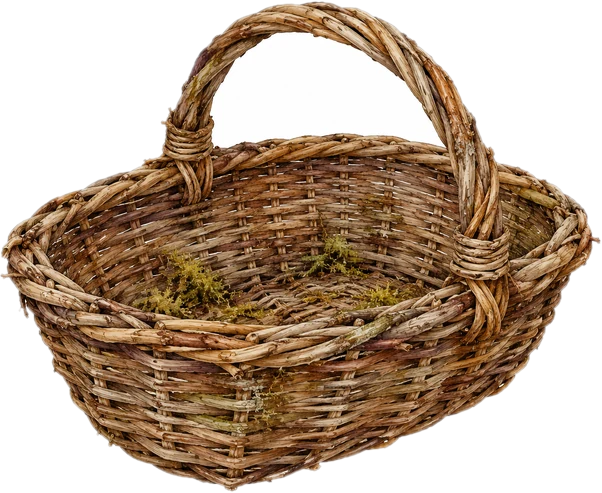
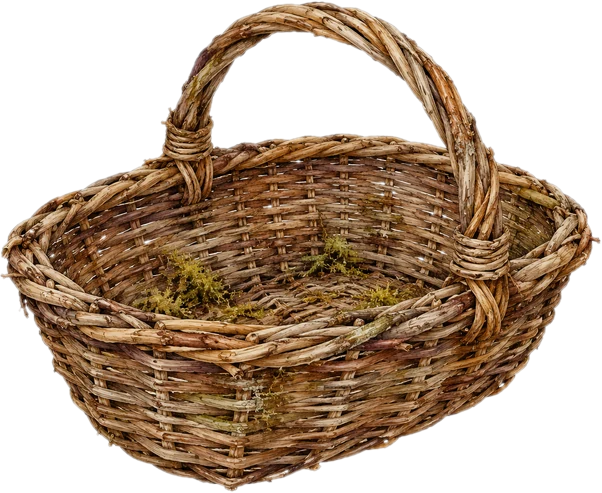
Comestible: all illustrations, gazette sidebar, medical report, Seasons quarantine, final-night story
Claude-Session: https://claude.ai/code/session_01JFfQ5nPYhxKCsb6BvVHV32

diff --git a/comestible/src/styles.css b/comestible/src/styles.css
@@ -357,8 +357,11 @@ button { font-family: inherit; font-size: inherit; color: inherit; }
 @keyframes lashes { 50% { transform: scale(1.05) skewX(3deg); filter: brightness(1.1); } }
 .cut-view { position: absolute; inset: 0; background: var(--paper); }
 .cut-view .lens-img { object-fit: contain; }
-.cut-tint { position: absolute; inset: 20% 22%; border-radius: 40%; background: var(--tint); mix-blend-mode: multiply; opacity: 0; animation: tint 2.2s 0.4s ease forwards; }
-@keyframes tint { to { opacity: 0.75; } }
+.cut-tint {
+  position: absolute; inset: 0; background: var(--tint); mix-blend-mode: multiply; opacity: 0; animation: tint 2.2s 0.4s ease forwards;
+  -webkit-mask-size: contain; mask-size: contain; -webkit-mask-repeat: no-repeat; mask-repeat: no-repeat; -webkit-mask-position: center; mask-position: center;
+}
+@keyframes tint { to { opacity: 0.6; } }
 .milk { position: absolute; left: 58%; top: 46%; width: 12px; height: 12px; border-radius: 50% 50% 50% 0; transform: rotate(-45deg) scale(0); background: var(--milk); box-shadow: 0 0 0 1px #0003; animation: milk 1.6s 0.3s ease forwards; }
 @keyframes milk { to { transform: rotate(-45deg) scale(2.2); } }
 .blood { position: absolute; inset: 0; background: radial-gradient(ellipse at 50% 45%, #8e1a12dd, #5a0d08aa 40%, transparent 65%); mix-blend-mode: multiply; animation: bleed 2s ease forwards; transform-origin: top; }
@@ -497,16 +500,24 @@ body.no-shake .shaking, body.no-shake .poisoned { animation: none; }
 .masthead { font-family: var(--display); font-size: 64px; text-align: center; line-height: 1; border-bottom: 3px double #1c1612; padding-bottom: 6px; }
 .issue { text-align: center; font-size: 0.7em; letter-spacing: 0.15em; text-transform: uppercase; border-bottom: 1px solid #1c1612; padding: 4px 0; margin-bottom: 14px; }
 .gazette article h3 { font-family: var(--display); font-weight: 400; margin: 0 0 4px; line-height: 1.1; }
-.gazette article p { margin: 0; font-size: 0.78em; text-align: justify; hyphens: auto; }
+.gazette article p { margin: 0; font-size: 0.86em; text-align: justify; hyphens: auto; }
 .gazette .lead h3 { font-size: 2.1em; text-align: center; }
 .gazette .lead p { font-size: 1em; margin-bottom: 4px; }
 .gazette-portrait { float: left; width: 150px; height: 150px; object-fit: cover; margin: 4px 22px 8px 0; filter: grayscale(1) sepia(0.5) contrast(1.2); border: 3px solid #1c1612; }
 .gazette .lead { overflow: hidden; margin-bottom: 10px; }
 .memorial { display: flex; flex-wrap: wrap; gap: 14px; margin-top: 26px; border-top: 1px solid #8a6a4366; padding-top: 18px; }
-.memorial figure { margin: 0; width: 110px; text-align: center; font-size: 0.65em; }
-.memorial-img { width: 110px; height: 110px; object-fit: cover; filter: grayscale(1) sepia(0.4); border: 2px solid var(--ink); }
+.memorial figure { margin: 0; width: 84px; text-align: center; font-size: 0.65em; }
+.memorial-img { width: 84px; height: 84px; object-fit: cover; filter: grayscale(1) sepia(0.4); border: 2px solid var(--ink); }
 .memorial-img.dead { filter: grayscale(1) brightness(0.7) contrast(1.2); }
-.columns { column-count: 3; column-gap: 26px; column-rule: 1px solid #1c161255; }
+.gazette-body { display: grid; grid-template-columns: 1fr 260px; gap: 26px; }
+.gazette-side { border-left: 1px solid #1c161255; padding-left: 22px; }
+.gazette-side figure { margin: 0 0 14px; text-align: center; }
+.engraving { width: 100%; height: 230px; object-fit: contain; filter: grayscale(1) sepia(0.35) contrast(1.35) brightness(0.95); mix-blend-mode: multiply; }
+.gazette-side figcaption { font-style: italic; font-size: 0.72em; border-top: 1px solid #1c1612; padding-top: 4px; }
+.weather { border: 1px solid #1c1612; padding: 8px 12px; font-size: 0.75em; }
+.weather h4 { margin: 0 0 4px; font-family: var(--display); font-weight: 400; font-size: 1.2em; text-align: center; }
+.weather p { margin: 0; text-align: center; }
+.columns { column-count: 2; column-gap: 26px; column-rule: 1px solid #1c161255; }
 .columns article { break-inside: avoid; margin-bottom: 14px; }
 .columns .big h3, .columns .normal h3 { font-size: 1.2em; }
 .columns .small h3 { font-size: 1em; }
@@ -515,7 +526,7 @@ body.no-shake .shaking, body.no-shake .poisoned { animation: none; }
   position: absolute; left: 50%; top: 50px; transform: translateX(-50%); width: 1200px; height: 720px;
   display: grid; grid-template-columns: 1fr 1fr; background: #2a1d14; padding: 14px; border-radius: 8px; box-shadow: 0 30px 80px #000c; animation: rise 0.6s ease;
 }
-.ledger-page { background: var(--paper) var(--tex-paper); background-size: 600px; color: var(--ink); padding: 34px 44px; }
+.ledger-page { background: var(--paper) var(--tex-paper); background-size: 600px; color: var(--ink); padding: 30px 44px; overflow-y: auto; }
 .ledger-page:first-child { box-shadow: inset -20px 0 30px -20px #6b4b2a; }
 .ledger-page:last-child { box-shadow: inset 20px 0 30px -20px #6b4b2a; }
 .ledger-page h2, .ledger-page h3 { font-family: var(--display); font-weight: 400; margin: 0 0 18px; font-size: 1.7em; }
@@ -527,7 +538,11 @@ body.no-shake .shaking, body.no-shake .poisoned { animation: none; }
 .ledger-total { display: flex; justify-content: space-between; margin-top: 18px; padding-top: 10px; border-top: 3px double var(--ink); font-size: 1.15em; font-family: var(--display); }
 .ledger-hint { font-size: 0.72em; font-style: italic; color: #6b2a1a; margin: 2px 0 6px; }
 .ledger-warning { color: var(--blood); font-size: 0.8em; font-style: italic; min-height: 1.2em; }
-.status p { margin: 8px 0; }
+.status p { margin: 6px 0; }
+.doctor { margin-top: 18px; border-top: 1px solid #8a6a4366; padding-top: 10px; font-size: 0.78em; }
+.doctor h3 { font-size: 1.4em; margin-bottom: 8px; }
+.doctor p { margin: 4px 0; }
+.doctor em { color: var(--blood); }
 .status strong { font-family: var(--display); font-weight: 400; }
 .lvl0 { color: var(--moss); }
 .lvl1 { color: #7a6a2a; }

diff --git a/comestible/src/i18n/fr.ts b/comestible/src/i18n/fr.ts
@@ -73,6 +73,7 @@ export const fr = {
       'La brume est entrée dans les maisons. C’est la dernière nuit avant le convoi de vivres.',
     ],
     rules: {
+      1: 'Outils : loupe et sels. Deux tampons : Comestible et Toxique. Le guide est votre seul ami.',
       2: 'Règle : tout spécimen dont la base manque est refusé (Toxique). Outils : couteau, règle.',
       3: 'Règle : ce qui n’est pas un champignon se brûle (Au feu). Outil : sporée.',
       4: 'Décret : lactaires délicieux et cèpes de plus de 15 cm sont saisis pour le comte (Saisi). Outil : bougie.',
@@ -328,6 +329,9 @@ export const fr = {
   morning: {
     gazette: 'La Gazette de Vaux-les-Brumes',
     issue: 'N° {n} — {date} 1887 — un sou',
+    plate: 'Planche du jour : {name}',
+    weatherTitle: 'Le temps',
+    weather: ['Brume au matin, pluie fine le soir.', 'Gel blanc, vent du nord.', 'Ciel bas, odeur de terre.', 'Brouillard tenace, aucune étoile.', 'Pluie grise par intermittence.', 'Nuit sans lune. Restez chez vous.'],
     continue: 'Ouvrir le registre',
     ledger: 'Registre de l’officine',
     income: 'Verdicts rendus ({n} spécimens)',
@@ -352,6 +356,23 @@ export const fr = {
     mistLevels: ['Claire', 'Légère', 'Épaisse', 'Étouffante', 'Partout'],
     youLevels: ['Bien portant', 'Fiévreux', 'Démangeaisons', 'Ça pousse', 'Tiède'],
   },
+  doctor: {
+    title: 'Rapport du médecin',
+    none: 'Aucune erreur relevée cette nuit. Le docteur a dormi.',
+    more: '… et {n} autres.',
+    line: '{who} — {what} : tamponné « {given} ».',
+    mimic: '{name} (imitation)',
+    outcome: {
+      poison: 'Intoxication.',
+      escaped: 'Ce n’était pas un champignon.',
+      infraction: 'Pied coupé : infraction relevée.',
+      missedSeize: 'Devait être saisi.',
+      wrongSeize: 'Saisi à tort.',
+      waste: 'Comestible jeté.',
+      wasteBurn: 'Comestible brûlé.',
+      countPoison: 'Servi au comte.',
+    },
+  },
   articles: {
     death: { t: 'Drame : {who} est mort', b: 'On a retrouvé {who} sans vie au petit matin, la bouche pleine d’écume. Le dernier repas venait de l’officine. Le docteur parle d’empoisonnement fongique.' },
     sick: { t: '{who} alité', b: 'Coliques, sueurs et vomissements : {who} gardera le lit un jour ou deux. « J’ai mangé ce qu’on m’a dit de manger », a-t-il confié.' },
@@ -373,6 +394,7 @@ export const fr = {
     story7: { t: 'Les Cueilleurs', b: 'Une confrérie d’inconnus vêtus de gris parcourt les rues. Ils ne mendient pas : ils offrent. Ceux qui acceptent ne reviennent pas toujours.' },
     story8: { t: 'Le comte est mort', b: 'Monsieur le comte a rendu l’âme après un dîner de cèpes. Le décret de réquisition est levé. Le château est fermé ; on n’y voit plus de lumière.' },
     story9: { t: 'Plus qu’une nuit', b: 'Le convoi de vivres est annoncé pour après-demain. Tenez bon. Le préfet promet du pain, du lard et des cierges.' },
+    story10: { t: 'Le convoi est en vue', b: 'Des lanternes sur la route du sud, enfin. Les sentinelles disent avoir compté douze charrettes. Elles disent aussi que la brume s’écarte sur leur passage, comme si elle les laissait entrer.' },
     filler1: { t: 'Un hiver précoce', b: 'Le givre a pris les vignes. Les anciens disent qu’on n’a pas vu ça depuis 1847.' },
     filler2: { t: 'Le loup du Haut-Bois', b: 'Des brebis ont été retrouvées couvertes de mousse blanche. Le loup est innocent, dit le berger.' },
     filler3: { t: 'Prix du sel', b: 'Le sel a doublé à la foire. On sale ce qu’on peut, on fait sécher le reste.' },

diff --git a/comestible/src/ui/morning.ts b/comestible/src/ui/morning.ts
@@ -5,6 +5,7 @@ import {
   CANDLE_COST, DEBT_LIMIT, MEAL_COST, rentFor,
 } from '../game/state';
 import { CHARACTER_BY_ID } from '../data/characters';
+import { SPECIES } from '../data/species';
 import { Rng, hashSeed } from '../game/rng';
 import { button, h, img, onKeys, show } from './dom';
 
@@ -41,7 +42,9 @@ function showGazette(state: GameState, result: MorningResult, onDone: () => void
     h('div.masthead', {}, t.morning.gazette),
     h('div.issue', {}, state.mode === 'endless' ? `— ${state.night} —` : fmt(t.morning.issue, { n: 312 + state.night, date })),
     lead ? article(lead.key, lead.params, 'lead') : null,
-    h('div.columns', {}, ...rest.map((a) => article(a.key, a.params, a.size))),
+    h('div.gazette-body', {},
+      h('div.columns', {}, ...rest.map((a) => article(a.key, a.params, a.size))),
+      sidebar(state, result, rng)),
   );
   const scene = h('div.scene.morning', {},
     h('div.bg.dawn'),
@@ -107,6 +110,7 @@ function showLedger(state: GameState, result: MorningResult, onNext: (e?: Expens
     h('p', {}, fmt(t.morning.gone, { n: state.disappeared.length })),
     h('p', {}, `${t.morning.mist} : `, h(`strong.lvl${Math.min(4, Math.floor(state.brume / 2))}` as 'strong', {}, mist)),
     h('p', {}, `${t.morning.you} : `, h(`strong.lvl${Math.min(4, Math.floor(state.contamination / 2))}` as 'strong', {}, you)),
+    doctorNotes(result),
     memorial(state),
   );
 
@@ -138,4 +142,34 @@ function memorial(state: GameState): HTMLElement | null {
   return h('div.memorial', {}, ...lost.map(([c, mark]) => h('figure', {},
     img(CHARACTER_BY_ID[c].portrait, `memorial-img${mark === '†' ? ' dead' : ''}`),
     h('figcaption', {}, `${mark} ${t.charTitle[c as keyof typeof t.charTitle]}`))));
+}
+
+/** Lists the night's wrong verdicts so the player can learn from them. */
+function doctorNotes(result: MorningResult): HTMLElement {
+  const t = L();
+  const shown = result.mistakes.slice(0, 6);
+  const name = (m: MorningResult['mistakes'][number]) => {
+    if (m.specimen.anomaly) return t.anomalies[m.specimen.anomaly];
+    const n = t.species[m.specimen.speciesId as keyof typeof t.species].name;
+    return m.specimen.mimic ? fmt(t.doctor.mimic, { name: n }) : n;
+  };
+  return h('div.doctor', {},
+    h('h3', {}, t.doctor.title),
+    ...(shown.length
+      ? shown.map((m) => h('p', {},
+        capitalize(fmt(t.doctor.line, { who: m.char, what: name(m), given: t.stamps[m.given] })), ' ',
+        h('em', {}, t.doctor.outcome[m.outcome as keyof typeof t.doctor.outcome] ?? '')))
+      : [h('p', {}, h('em', {}, t.doctor.none))]),
+    result.mistakes.length > shown.length ? h('p', {}, fmt(t.doctor.more, { n: result.mistakes.length - shown.length })) : null);
+}
+
+/** Engraving of a specimen seen at the shop, plus the weather: keeps the page full. */
+function sidebar(state: GameState, result: MorningResult, rng: Rng): HTMLElement {
+  const t = L();
+  const featured = result.mistakes.find((m) => m.specimen.speciesId)?.specimen.speciesId
+    ?? rng.pick(SPECIES.filter((s) => state.mode === 'endless' || s.night <= state.night)).id;
+  return h('aside.gazette-side', {},
+    h('figure', {}, img(`sp_${featured}`, 'engraving'),
+      h('figcaption', {}, fmt(t.morning.plate, { name: t.species[featured as keyof typeof t.species].name }))),
+    h('div.weather', {}, h('h4', {}, t.morning.weatherTitle), h('p', {}, rng.pick(t.morning.weather))));
 }

diff --git a/comestible/src/i18n/en.ts b/comestible/src/i18n/en.ts
@@ -74,6 +74,7 @@ export const en: Locale = {
       'The mist has come into the houses. Last night before the supply convoy.',
     ],
     rules: {
+      1: 'Tools: lens and smelling salts. Two stamps: Edible and Toxic. The guide is your only friend.',
       2: 'Rule: any specimen missing its base is refused (Toxic). Tools: knife, ruler.',
       3: 'Rule: what is not a mushroom gets burned (Burn). Tool: spore print.',
       4: 'Decree: saffron milkcaps and ceps over 15 cm are seized for the count (Seize). Tool: candle.',
@@ -329,6 +330,9 @@ export const en: Locale = {
   morning: {
     gazette: 'The Vaux-les-Brumes Gazette',
     issue: 'No. {n} — {date}, 1887 — one sou',
+    plate: 'Plate of the day: {name}',
+    weatherTitle: 'Weather',
+    weather: ['Mist in the morning, light rain at night.', 'White frost, north wind.', 'Low sky, smell of earth.', 'Stubborn fog, no stars.', 'Grey rain on and off.', 'Moonless night. Stay indoors.'],
     continue: 'Open the ledger',
     ledger: 'Shop ledger',
     income: 'Verdicts given ({n} specimens)',
@@ -353,6 +357,23 @@ export const en: Locale = {
     mistLevels: ['Clear', 'Light', 'Thick', 'Smothering', 'Everywhere'],
     youLevels: ['Healthy', 'Feverish', 'Itching', 'Something grows', 'Warm'],
   },
+  doctor: {
+    title: 'Medical report',
+    none: 'No mistakes noted tonight. The doctor slept.',
+    more: '… and {n} more.',
+    line: '{who} — {what}: stamped “{given}”.',
+    mimic: '{name} (mimic)',
+    outcome: {
+      poison: 'Poisoning.',
+      escaped: 'It was not a mushroom.',
+      infraction: 'Stem cut off: infraction noted.',
+      missedSeize: 'Should have been seized.',
+      wrongSeize: 'Seized by mistake.',
+      waste: 'Edible thrown away.',
+      wasteBurn: 'Edible burned.',
+      countPoison: 'Served to the count.',
+    },
+  },
   articles: {
     death: { t: 'Tragedy: {who} is dead', b: '{who} was found lifeless at dawn, mouth full of foam. The last meal came from the shop. The doctor speaks of fungal poisoning.' },
     sick: { t: '{who} bedridden', b: 'Cramps, sweats and vomiting: {who} will stay in bed for a day or two. “I ate what I was told to eat,” the patient said.' },
@@ -374,6 +395,7 @@ export const en: Locale = {
     story7: { t: 'The Gatherers', b: 'A brotherhood of strangers dressed in grey walks the streets. They do not beg: they offer. Those who accept do not always come back.' },
     story8: { t: 'The count is dead', b: 'His Lordship passed away after a dinner of ceps. The requisition decree is lifted. The castle is shut; no light is seen there anymore.' },
     story9: { t: 'One more night', b: 'The supply convoy is announced for the day after tomorrow. Hold on. The prefect promises bread, bacon and church candles.' },
+    story10: { t: 'The convoy is in sight', b: 'Lanterns on the south road, at last. The lookouts counted twelve carts. They also say the mist parts as they pass, as if it were letting them in.' },
     filler1: { t: 'An early winter', b: 'Frost has taken the vines. The elders say nothing like it has been seen since 1847.' },
     filler2: { t: 'The wolf of Haut-Bois', b: 'Sheep were found covered in white moss. The wolf is innocent, says the shepherd.' },
     filler3: { t: 'Price of salt', b: 'Salt has doubled at the fair. We salt what we can and dry the rest.' },

diff --git a/comestible/tests/logic.test.ts b/comestible/tests/logic.test.ts
@@ -35,7 +35,7 @@ describe('locales', () => {
         if (c?.lines) expect(fr.scripted[c.lines as keyof typeof fr.scripted], c.lines).toBeDefined();
       }
     }
-    for (let n = 1; n < NIGHT_COUNT; n++) expect(fr.articles[`story${n}` as keyof typeof fr.articles]).toBeDefined();
+    for (let n = 1; n <= NIGHT_COUNT; n++) expect(fr.articles[`story${n}` as keyof typeof fr.articles]).toBeDefined();
   });
 });
 
@@ -107,6 +107,7 @@ function playCampaign(player: Player, seed: number, denounce: boolean) {
       }
     }
     const morning = resolveNight(state, report);
+    for (const a of morning.articles) expect(fr.articles[a.key as keyof typeof fr.articles], a.key).toBeDefined();
     if (morning.gameOver) return { ending: morning.gameOver, state, money };
     if (isFinalNight(state)) return { ending: finalEnding(state), state, money };
     const ending = payAndAdvance(state, { candles: true, meal: true });
@@ -138,5 +139,27 @@ describe('campaign balance', () => {
     const finished = results.filter((r) => ['officine', 'mycologue', 'lison', 'brume'].includes(r.ending));
     console.log('85% player:', results.map((r) => `${r.ending}@${r.state.night} money=${r.money.join(',')}`).join(' | '));
     expect(finished.length).toBeGreaterThanOrEqual(2);
+  });
+});
+
+describe('seasons mode', () => {
+  it('runs many nights for a perfect player and reports valid articles', () => {
+    const state = newGame('endless', false, 99);
+    for (let n = 0; n < 15; n++) {
+      const plan = planNight(state);
+      expect(plan.clients.length).toBeGreaterThan(3);
+      const report = emptyReport();
+      for (const c of plan.clients) {
+        if (c.infected) report.denounced.push({ char: c.char, infected: true });
+        for (const sp of c.specimens) {
+          const right = correctVerdict(sp, plan.rules);
+          report.verdicts.push({ char: c.char, specimen: sp, given: right, outcome: judge(sp, right, plan.rules), pay: payFor('ok', right) });
+        }
+      }
+      const morning = resolveNight(state, report);
+      for (const a of morning.articles) expect(fr.articles[a.key as keyof typeof fr.articles], a.key).toBeDefined();
+      expect(morning.gameOver).toBeUndefined();
+      expect(payAndAdvance(state, { candles: true, meal: true })).toBeUndefined();
+    }
   });
 });

diff --git a/comestible/src/game/state.ts b/comestible/src/game/state.ts
@@ -188,8 +188,17 @@ export interface LedgerLine {
   params?: Record<string, string | number>;
 }
 
+export interface Mistake {
+  char: string;
+  specimen: Specimen;
+  given: Verdict;
+  outcome: Outcome;
+}
+
 export interface MorningResult {
   articles: Article[];
+  /** Wrong verdicts of the night, for the doctor's notes in the ledger. */
+  mistakes: Mistake[];
   ledger: LedgerLine[];
   earned: number;
   /** Ending triggered before expenses (arrest, mist, mycelium). */
@@ -258,7 +267,9 @@ export function resolveNight(state: GameState, report: NightReport): MorningResu
   }
 
   for (const d of report.denounced) {
-    state.arrested.push(d.char);
+    // Seasons never end, so villagers come back from quarantine instead of emptying the village.
+    if (state.mode === 'endless' && VILLAGERS.includes(d.char)) state.sick[d.char] = state.night + 3;
+    else state.arrested.push(d.char);
     state.stats.denounced++;
     if (d.infected) {
       earned += 3;
@@ -297,7 +308,10 @@ export function resolveNight(state: GameState, report: NightReport): MorningResu
   if (state.deaths.length >= DEATHS_FOR_ARREST) gameOver = 'arrete';
   else if (state.contamination >= CONTAMINATION_MAX) gameOver = 'cueilleur';
   else if (state.brume >= BRUME_MAX) gameOver = 'brume';
-  return { articles, ledger, earned: earned - fines, gameOver };
+  const mistakes = report.verdicts
+    .filter((v) => v.outcome !== 'ok' && v.outcome !== 'ok_burned')
+    .map(({ char, specimen, given, outcome }) => ({ char, specimen, given, outcome }));
+  return { articles, mistakes, ledger, earned: earned - fines, gameOver };
 }
 
 export interface Expenses {

diff --git a/comestible/src/ui/night.ts b/comestible/src/ui/night.ts
@@ -245,7 +245,11 @@ export function runNight(state: GameState, plan: NightPlan, onEnd: (report: Nigh
       case 'couteau': {
         audio.play('knife');
         const view = h('div.cut-view', {}, img(strange ? s.anomaly! : CUT_IMG[sp!.cut], 'lens-img'));
-        if (sp?.cutTint && !tell) view.append(h('div.cut-tint', { style: `--tint:${sp.cutTint}` }));
+        if (sp?.cutTint && !tell) {
+          // The tint is masked by the cut illustration so only the flesh changes colour.
+          const mask = `url('img/${CUT_IMG[sp.cut]}.webp')`;
+          view.append(h('div.cut-tint', { style: `--tint:${sp.cutTint};-webkit-mask-image:${mask};mask-image:${mask}` }));
+        }
         if (sp?.milk && !tell) view.append(h('div.milk', { style: `--milk:${sp.milk}` }));
         if (tell || strange) {
           view.append(h('div.blood'));

diff --git a/comestible/tools/import_assets.py b/comestible/tools/import_assets.py
@@ -14,10 +14,13 @@ from PIL import Image, ImageChops, ImageDraw, ImageFilter
 
 OUT = Path(__file__).resolve().parent.parent / "public" / "img"
 CUTOUT_PREFIXES = ("sp_", "an_", "obj_", "chr_", "ct_", "ui_")
+# Objects have no white parts of their own: white areas enclosed by them (the gap under a
+# basket handle) are background too. Mushrooms keep enclosed whites.
+ENCLOSED_WHITE_PREFIXES = ("obj_",)
 WHITE_THRESHOLD = 236
 
 
-def cutout(img: Image.Image) -> Image.Image:
+def cutout(img: Image.Image, enclosed: bool = False) -> Image.Image:
     rgb = img.convert("RGB")
     # Pixels close to white in every channel are background candidates.
     lightest = rgb.convert("L").point(lambda v: 255 if v >= WHITE_THRESHOLD else 0)
@@ -30,7 +33,7 @@ def cutout(img: Image.Image) -> Image.Image:
     for seed in seeds:
         if mask.getpixel(seed) == 255:
             ImageDraw.floodfill(mask, seed, 128)
-    background = mask.point(lambda v: 255 if v == 128 else 0)
+    background = mask.point(lambda v: 255 if v in (128, 255) else 0) if enclosed else mask.point(lambda v: 255 if v == 128 else 0)
     # Grow the cut by one pixel to drop the white halo, then feather.
     background = background.filter(ImageFilter.MaxFilter(3)).filter(ImageFilter.GaussianBlur(1.1))
     alpha = ImageChops.invert(background)
@@ -48,7 +51,7 @@ def main(dirs: list[str]) -> None:
             img = Image.open(png)
             name = png.stem
             if name.startswith(CUTOUT_PREFIXES):
-                img = cutout(img)
+                img = cutout(img, enclosed=name.startswith(ENCLOSED_WHITE_PREFIXES))
                 img.save(OUT / f"{name}.webp", "WEBP", quality=88, method=6)
             else:
                 img.convert("RGB").save(OUT / f"{name}.webp", "WEBP", quality=84, method=6)
